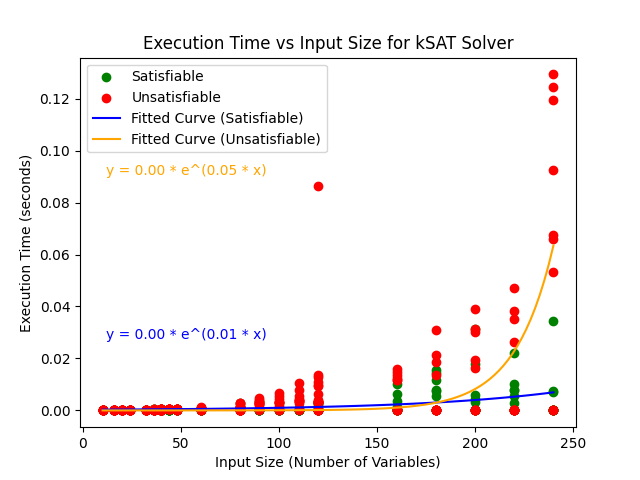
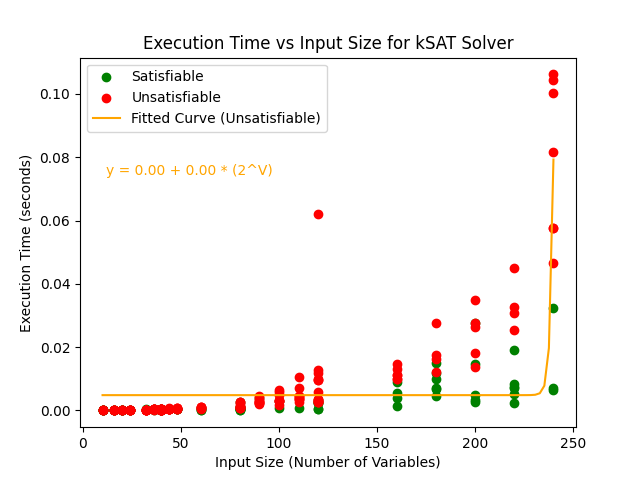
Adjusting graph code for correct equation:

diff --git a/project1/src/kSAT_solver_nswat.py b/project1/src/kSAT_solver_nswat.py
@@ -61,7 +61,7 @@ def choose_literal(clauses):
     return clauses[0][0]
 
 def exp_func(x, a, b):
-    return a * np.exp(b * x)
+    return b + a*(2**x)
 
 if __name__ == "__main__": 
     #parse command line argument (containing file of wffs in cnf form) to be solved 
@@ -95,30 +95,28 @@ if __name__ == "__main__":
 
     x_fit = np.linspace(min(input_sizes), max(input_sizes), 100)
 
-    if len(satisfiable_times) > 0 and len(input_sizes) > 0:
-        # Fit the exponential curve for satisfiable times
-        params_satisfiable, _ = curve_fit(exp_func, input_sizes, satisfiable_times, p0=(1, 0.01))
+    #filtering out zero values so line of best fit is not affected
+    filtered_satisfiable = [(size, timing) for size, timing in zip(input_sizes, satisfiable_times) if timing > 0]
+    filtered_unsatisfiable = [(size, timing) for size, timing in zip(input_sizes, unsatisfiable_times) if timing > 0]
 
-    if len(unsatisfiable_times) > 0 and len(input_sizes) > 0:
+    #unzipping 
+    filtered_sat_inputs, filtered_sat_times = zip(*filtered_satisfiable)
+    filtered_unsat_inputs, filtered_unsat_times = zip(*filtered_unsatisfiable)
+
+    plt.scatter(filtered_sat_inputs, filtered_sat_times, color='green', label='Satisfiable')
+    plt.scatter(filtered_unsat_inputs, filtered_unsat_times, color='red', label='Unsatisfiable' )
+
+
+    if len(filtered_unsatisfiable) > 0 and len(input_sizes) > 0:
         # Fit the exponential curve for unsatisfiable times
-        params_unsatisfiable, _ = curve_fit(exp_func, input_sizes, unsatisfiable_times, p0=(1, 0.01))
+        params_unsatisfiable, _ = curve_fit(exp_func, filtered_unsat_inputs, filtered_unsat_times, p0=(1, 0.01))
 
-    plt.scatter(input_sizes, satisfiable_times, color='green', label='Satisfiable')
-    plt.scatter(input_sizes, unsatisfiable_times, color='red', label='Unsatisfiable' )
-
-    if len(satisfiable_times) > 0:
-        y_fit_satisfiable = exp_func(x_fit, *params_satisfiable)
-        plt.plot(x_fit, y_fit_satisfiable, color='blue', label='Fitted Curve (Satisfiable)')
-        a, b = params_satisfiable
-        equation_satisfiable = f'y = {a:.2f} * e^({b:.2f} * x)'
-        plt.text(0.05 * max(input_sizes), 0.8 * max(satisfiable_times), equation_satisfiable, color='blue')
-
-    if len(unsatisfiable_times) > 0:
+    if len(filtered_unsat_times) > 0:
         y_fit_unsatisfiable = exp_func(x_fit, *params_unsatisfiable)
         plt.plot(x_fit, y_fit_unsatisfiable, color='orange', label='Fitted Curve (Unsatisfiable)')
         a, b = params_unsatisfiable
-        equation_unsatisfiable = f'y = {a:.2f} * e^({b:.2f} * x)'
-        plt.text(0.05 * max(input_sizes), 0.7 * max(unsatisfiable_times), equation_unsatisfiable, color='orange')
+        equation_unsatisfiable = f'y = {b:.2f} + {a:.2f} * (2^V)'
+        plt.text(0.05 * max(filtered_unsat_inputs), 0.7 * max(filtered_unsat_times), equation_unsatisfiable, color='orange')
 
     plt.xlabel('Input Size (Number of Variables)')
     plt.ylabel('Execution Time (seconds)')
